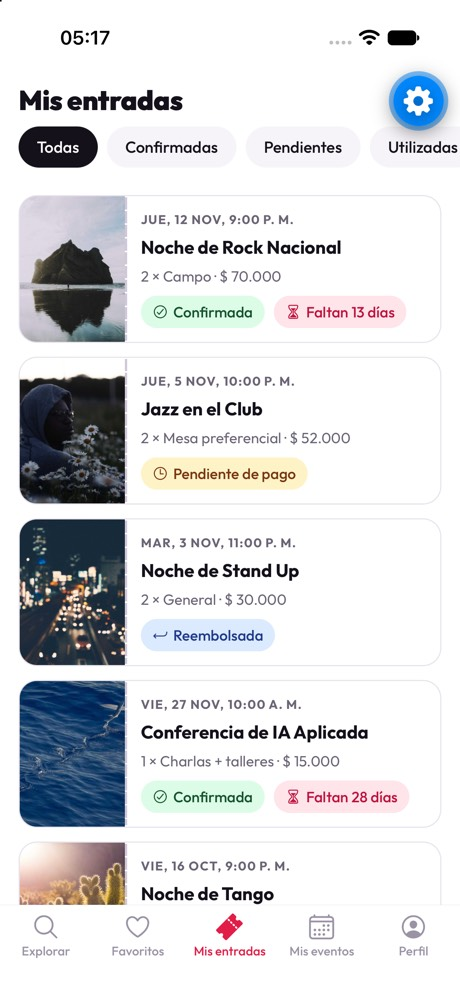
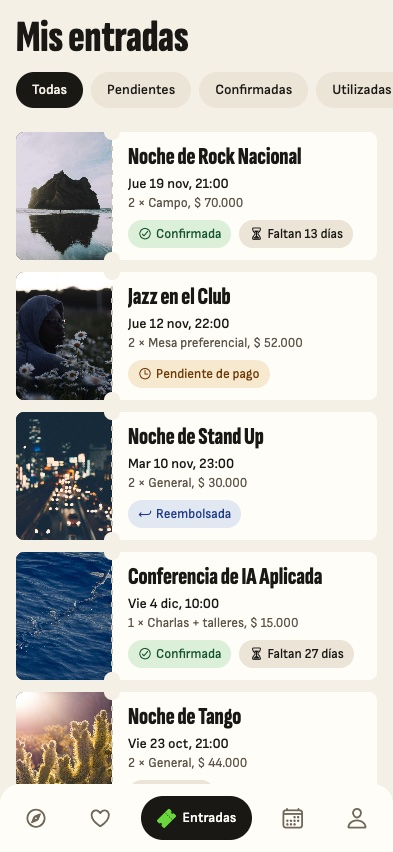
docs: README más limpio, capturas nuevas y diagramas en PlantUML
- Capturas nuevas de la app rediseñada (comprador y organizador).
- Arquitectura como diagrama de componentes UML en PlantUML, la herramienta
  del diagrama de clases del enunciado (fuente en docs/diagramas/).
- Modelo de dominio con el diagrama de clases de la consigna y lo que agrega
  la implementación.
- Sin la sección de inicio de sesión con Google: los pasos quedan en
  mobile/.env.example.
- La lista de prueba manual en Expo Go pasa al checklist de requerimientos.
- Corrige la estructura de tests, quién puede reseñar con los usuarios de
  ejemplo y la técnica de sincronismo de Mis entradas.

diff --git a/docs/checklist-requerimientos.md b/docs/checklist-requerimientos.md
@@ -11,7 +11,7 @@ Revisado contra el código de `main` (commit `cc12cd8`) el 6/11/2026. Para el es
 | Falta | Quién | Dónde está lo necesario |
 |---|---|---|
 | Recorrer con VoiceOver y TalkBack, Accessibility Inspector y Scanner, letra al máximo | Vos, con un celular | Punto 8 |
-| Prueba manual en Expo Go, iOS y Android, y red lenta | Vos, con un celular | Punto 9 y `README.md` |
+| Prueba manual en Expo Go, iOS y Android, y red lenta | Vos, con un celular | Punto 9 |
 | Prueba de usabilidad con una persona externa | Vos y esa persona | Guion y tabla en `docs/ux.md` |
 | Hacer el ejercicio UX Detective | Vos | Comparación hecha en `docs/ux.md` |
 | Confirmar con la cátedra si los E2E son requisito | Vos | Punto 9 |
@@ -323,7 +323,7 @@ La cátedra usa **Jest con Supertest** en todo su material. Migrar el backend es
 
 **Decisión sobre E2E (6/11/2026): Cypress sobre Expo web.**
 - **Por qué:** es lo que enseñó la cátedra (Clase 09 y mini clase), permite simular errores del servidor y la app ya corre en Expo web.
-- **Límite:** prueba la versión web. Cubre lógica, API y flujos, pero no lo nativo, que se prueba a mano en Expo Go (lista más abajo) y se aclara en el README.
+- **Límite:** prueba la versión web. Cubre lógica, API y flujos, pero no lo nativo, que se prueba a mano en Expo Go (lista más abajo).
 - **Alternativa:** Maestro probaría la app real, pero la cátedra no lo enseñó y falta confirmar que ande con Expo Go. Queda como mejora opcional.
 - **A confirmar con la cátedra:** el video presenta los E2E como requisito "del TP" y el enunciado del TP individual no los menciona.
 
@@ -392,7 +392,7 @@ La cátedra usa **Jest con Supertest** en todo su material. Migrar el backend es
 
 **E2E con Cypress: cierre**
 - [x] Sumar un job `e2e` a `.github/workflows/ci.yml`: exportar la web con `npx expo export --platform web`, servir `dist`, levantar el backend, esperar a `/api/health`, correr `cypress run` y guardar las capturas si falla. Corre en GitHub Actions. Las primeras corridas fallaron de a ratos en `compra.cy.js`: Cypress desplaza el elemento antes de hacer clic y, en `react-native-web`, cualquier scroll de una lista con `keyboardDismissMode="on-drag"` le saca el foco al input. Cypress lo informa, de forma engañosa, como "disabled element". Se corrigió con `scrollBehavior: false` al escribir en el buscador.
-- [x] Documentar en `README.md` y `CLAUDE.md` cómo se corren y qué no cubren.
+- [x] Documentar cómo se corren en `README.md` y `mobile/CLAUDE.md`, y qué no cubren en este archivo ("Lo que Cypress no cubre").
 - [x] Correr la suite 3 veces seguidas sin fallas aleatorias. Tres corridas seguidas sobre el `dist`: 19 de 19 en cada una.
 - [x] Romper algo a propósito y ver que falle el test correcto ("un test es efectivo cuando falla", dice el video). Con Reintentar siempre visible en `EstadoError` fallan justo los 2 tests que corresponden: el 404 y el 403.
 
@@ -405,8 +405,11 @@ La cátedra usa **Jest con Supertest** en todo su material. Migrar el backend es
 - [ ] Token en SecureStore: cerrar y reabrir la app sin perder la sesión.
 - [ ] Diálogo nativo de confirmación (`Alert`).
 - [ ] Hoja de pago con el teclado abierto y botón "atrás" de Android durante el cobro.
+- [ ] Cerrar la app durante un pago y ver que, al abrirla, avisa el resultado.
 - [ ] Selector de fecha nativo al crear un evento.
 - [ ] Vibración al confirmar el pago.
+- [ ] VoiceOver y TalkBack: orden de lectura, nombres, anuncios y foco en el primer error.
+- [ ] Letra del sistema al máximo: que nada se corte.
 - [ ] Al reservar, la hoja de pago sube sola. Probar varias reservas seguidas en iOS y en Android: que se vea siempre, que el botón Pagar de la compra la vuelva a abrir, y adónde va el foco del lector.
 - [ ] En Nuevo evento, al fallar, la pantalla se desplaza hasta el primer error. Probar en iOS y Android, con el teclado abierto, con VoiceOver y TalkBack y con la letra al máximo.
 - [ ] Pasarlo en un celular o simulador iOS y en Android.

diff --git a/mobile/CLAUDE.md b/mobile/CLAUDE.md
@@ -26,7 +26,7 @@ Expo SDK 58 + Expo Router, JavaScript. Corre en el celular con Expo Go y en el n
 
 ## E2E con Cypress
 
-Prueban los flujos completos, contra el backend real, sobre Expo web (`cypress/e2e/*.cy.js`). Lo nativo no lo cubren: se prueba a mano (ver `README.md`).
+Prueban los flujos completos, contra el backend real, sobre Expo web (`cypress/e2e/*.cy.js`). Lo nativo no lo cubren: se prueba a mano con la lista de `docs/checklist-requerimientos.md` ("Lo que Cypress no cubre").
 
 - Para correrlos hacen falta tres cosas: el backend con `AUTH_INTENTOS_MAXIMOS=1000 npm run dev` (si no, los logins terminan en 429), la app en el puerto 8081 (`npx expo start --web --port 8081`, o `npx expo export --platform web` y `npm run e2e:servir`) y `npm run e2e` (`npm run e2e:open` abre la interfaz).
 - Antes de cada test se restauran los datos y se prende la pasarela (`cypress/support/e2e.js`). `cy.iniciarSesion(email)` entra sin pasar por el formulario; solo `auth.cy.js` lo usa.

diff --git a/docs/requerimientos.md b/docs/requerimientos.md
@@ -39,7 +39,7 @@ También aclara que "el enfoque estará puesto en la comprensión de los concept
 
 ### Casos de uso (p. 8)
 
-Los números son los del `CLAUDE.md`: el enunciado no los numera. El estado sale de `README.md:51-68`.
+Los números son los del `CLAUDE.md`: el enunciado no los numera. El estado sale de la tabla "Casos de uso" del `README.md`.
 
 | CU   | Texto del enunciado                                                                                                                                                                                         | Estado |
 | ---- | ----------------------------------------------------------------------------------------------------------------------------------------------------------------------------------------------------------- | ------ |
